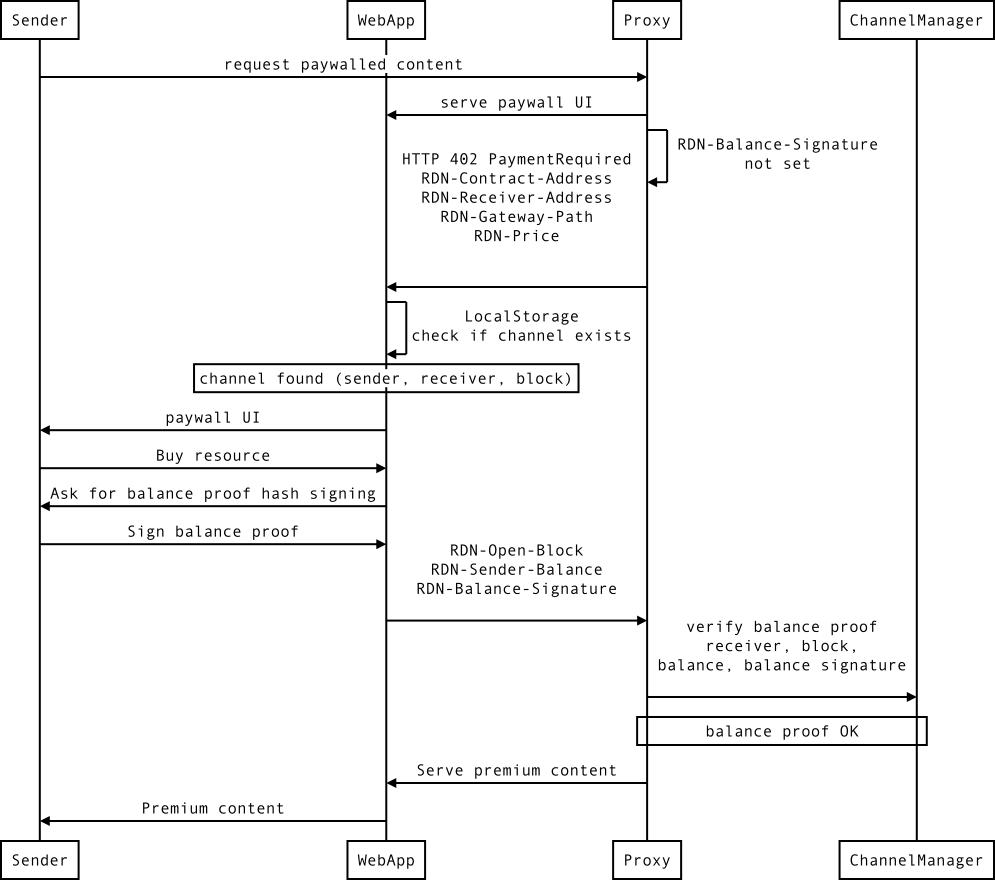
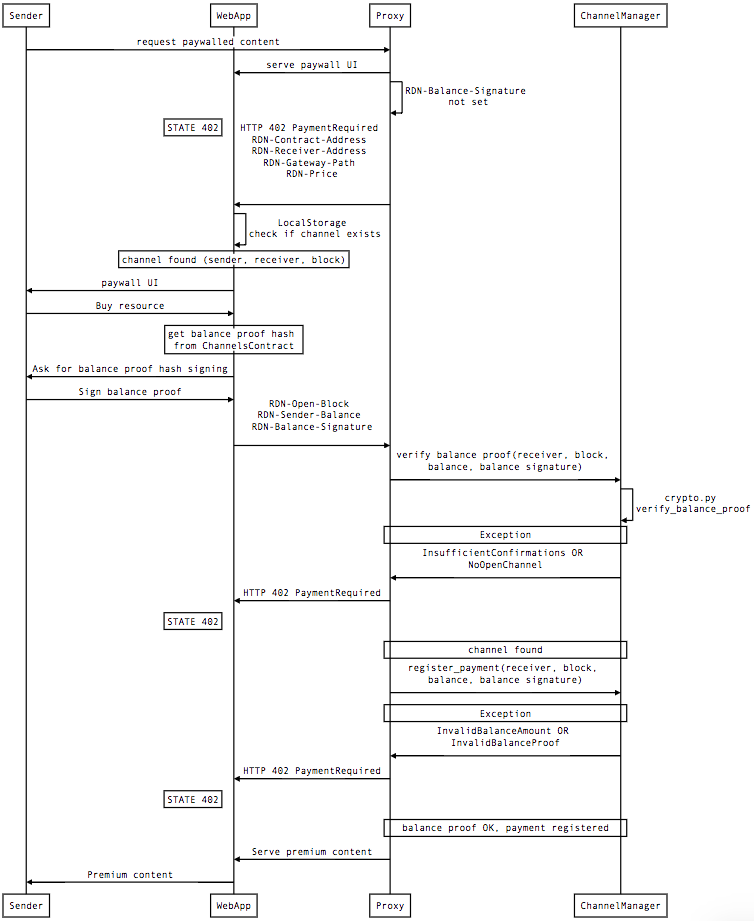
Add off-chain closing example diagram

Changed region(s): [[0.0, 0.0, 1.0, 1.0]]

diff --git a/docs/diagrams/diagrams_source.md b/docs/diagrams/diagrams_source.md
@@ -43,6 +43,7 @@ RDN-Open-Block
 
 ## Off-chain
 
+## Off-chain micropayment
 
 ```sequence
 
@@ -54,27 +55,88 @@ Sender -> Proxy: request paywalled content
 Proxy -> WebApp: serve paywall UI
 Proxy -> Proxy: RDN-Balance-Signature \n not set
 
+Note left of WebApp: STATE 402
 Proxy -> WebApp: HTTP 402 PaymentRequired \n RDN-Contract-Address \n RDN-Receiver-Address \n RDN-Gateway-Path \n RDN-Price
 WebApp -> WebApp: LocalStorage \n check if channel exists
 Note over WebApp: channel found (sender, receiver, block)
 
 WebApp->Sender: paywall UI
 Sender -> WebApp: Buy resource
+Note over WebApp: get balance proof hash \n from ChannelsContract
 
 WebApp -> Sender: Ask for balance proof hash signing
 Sender -> WebApp: Sign balance proof
 WebApp -> Proxy: RDN-Open-Block \n RDN-Sender-Balance \n RDN-Balance-Signature
 
 Proxy -> ChannelManager: verify balance proof \n receiver, block, \n balance, balance signature
+ChannelManager -> ChannelManager: crypto.py \n verify_balance_proof
+
+Note over Proxy, ChannelManager: Exception
+
+ChannelManager -> Proxy: InsufficientConfirmations OR \n NoOpenChannel\n
+
+Proxy -> WebApp: HTTP 402 PaymentRequired
+Note left of WebApp: STATE 402
 
 
-Note over ChannelManager,Proxy: balance proof OK
+Note over ChannelManager,Proxy: channel found
+Proxy -> ChannelManager: register_payment(receiver, block, \n balance, balance signature)
+
+Note over Proxy, ChannelManager: Exception
+ChannelManager -> Proxy: InvalidBalanceAmount OR \n InvalidBalanceProof\n
+Proxy -> WebApp: HTTP 402 PaymentRequired
+Note left of WebApp: STATE 402
+
+
+
+Note over ChannelManager,Proxy: balance proof OK \n payment registered
 Proxy -> WebApp: Serve premium content
 WebApp -> Sender: Premium content
 
 
 ```
 
+## Off-chain channel close
+
+```sequence
+
+participant Sender
+participant WebApp
+participant Proxy
+
+Sender -> WebApp: close channel \n (receiver, block)
+
+WebApp -> ChannelsContract: close(receiver, block, last balance, \n last balance_signature)
+ChannelsContract -> ChannelsContract: challenge period
+
+ChannelsContract -> Blockchain: ChannelCloseRequested (sender, \n receiver, block, balance)
+Blockchain -> ChannelManager: receive \n ChannelCloseRequested
+ChannelManager -> ChannelManager: crypto.py \n verify closing balance
+
+Note over ChannelManager,ChannelsContract: incorrect balance
+ChannelManager -> ChannelManager: close_channel()
+ChannelManager -> ChannelsContract: close()
+Note left of ChannelsContract: State CLOSED
+
+Note over ChannelManager,ChannelsContract: correct balance
+ChannelManager -> ChannelManager: set channel as closed \n set settle_timeout
+
+Note over Sender, ChannelsContract: Challenge period ended
+Sender -> WebApp: settle channel (receiver, block)
+WebApp -> ChannelsContract: settle(receiver, block)
+Note left of ChannelsContract: State CLOSED
+
+ChannelsContract -> Blockchain: ChannelSettled (sender, \n receiver, block, balance)
+
+Blockchain -> ChannelManager: receive \n ChannelSettled
+ChannelManager -> ChannelManager: event_channel_settled()
+ChannelManager -> ChannelManager: store state
+
+Blockchain -> WebApp: receive \n ChannelSettled
+WebApp -> Sender: show channel closed state
+
+
+```
 
 
 ## Channel Manager

diff --git a/docs/dev_overview.md b/docs/dev_overview.md
@@ -103,7 +103,18 @@ StateReceiverAddrMismatch
 
 ## Off-Chain Messages
 
+### Micropayment Sequence
+
+(not-so-standard sequence diagram)
+For a better overview, also check out [/contracts/README.md#generating-and-validating-a-transfer](/contracts/README.md#generating-and-validating-a-transfer)
+
 ![](/docs/diagrams/OffChainSequence.png)
+
+### Channel Closing Sequence
+
+For a better overview, also check out [/contracts/README.md#generating-and-validating-a-closing-agreement](/contracts/README.md#generating-and-validating-a-closing-agreement)
+
+![](/docs/diagrams/OffChainSequenceClosing.png)
 
 
 ## Proxy
